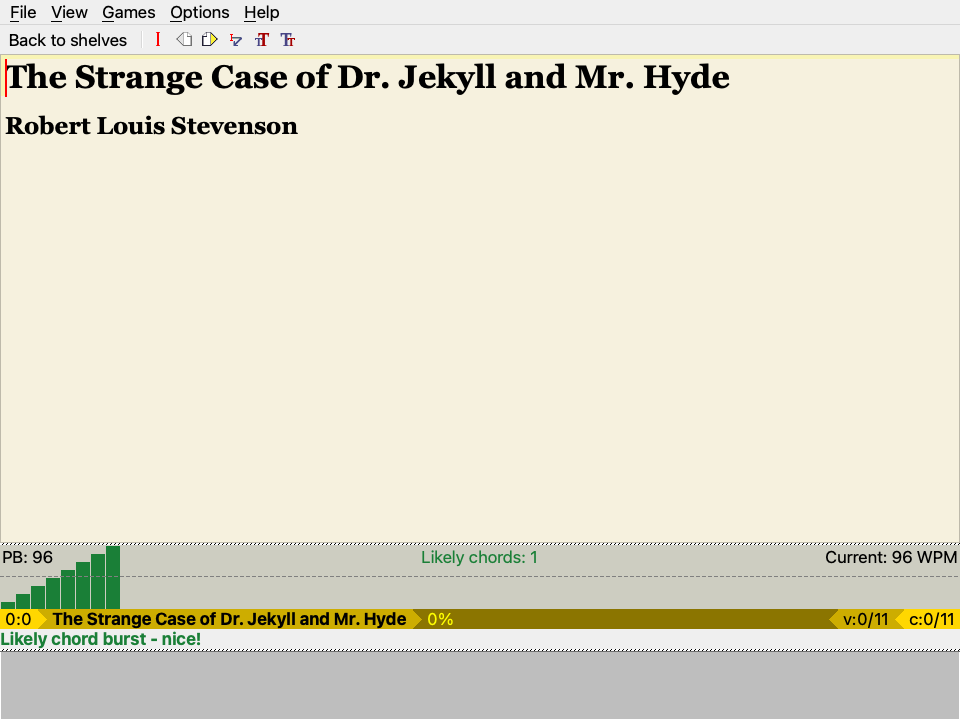
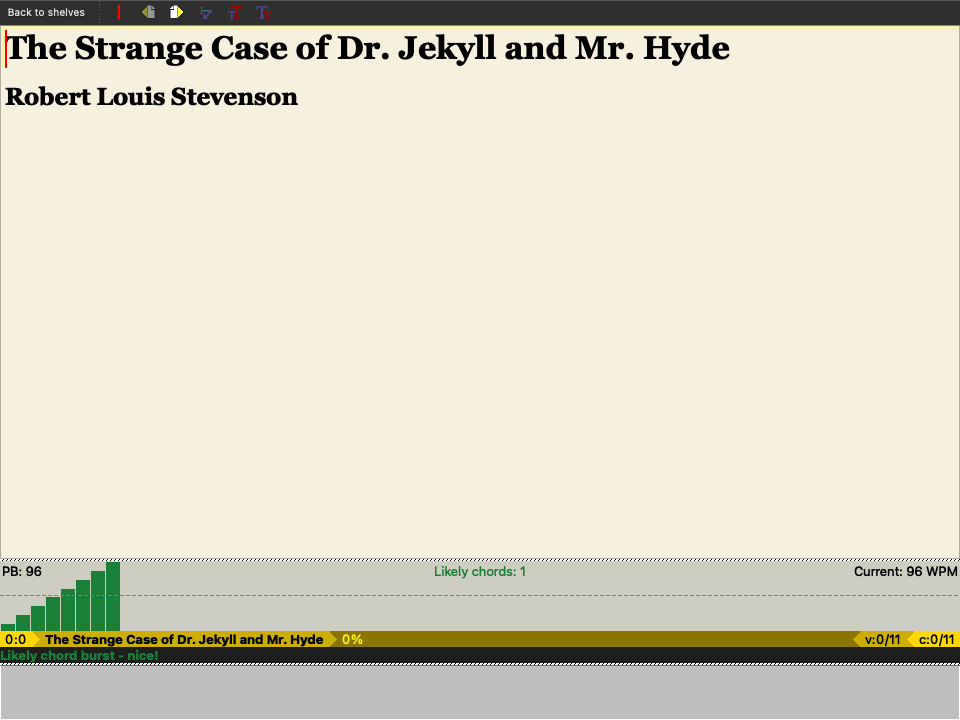
fix: auto-hide likely chord encouragement

Changed region(s): [[0.0, 0.7333, 1.0, 0.9472], [0.0, 0.0, 1.0, 0.1833]]

diff --git a/retype/ui/book_view.py b/retype/ui/book_view.py
@@ -2,7 +2,7 @@ import logging
 from qt import (QWidget, QVBoxLayout, QTextBrowser, QTextDocument, QUrl,
                 QTextCursor, QTextCharFormat, QPainter, QPixmap,
                 QToolBar, QFont, QKeySequence, Qt, QApplication, pyqtSignal,
-                QSplitter, QSize, QGuiApplication, QLabel)
+                QSplitter, QSize, QGuiApplication, QLabel, QTimer)
 
 from typing import TYPE_CHECKING
 
@@ -281,6 +281,12 @@ class BookView(QWidget):
         self.chord_hint_bar.setObjectName('chord-hint-bar')
         self.chord_feedback = QLabel('', self)
         self.chord_feedback.setObjectName('chord-feedback')
+        # Keep this timer owned by the view and single-shot so it cannot keep
+        # the application or tests alive after the view is destroyed.
+        self._chord_feedback_timer = QTimer(self)
+        self._chord_feedback_timer.setSingleShot(True)
+        self._chord_feedback_timer.timeout.connect(
+            self._hideLikelyChordFeedback)
         self.chord_feedback.setAccessibleName('Likely chord encouragement')
         self.chord_feedback.setAccessibleDescription(
             'Encouragement shown when a short keyboard-output burst is likely '
@@ -494,20 +500,31 @@ class BookView(QWidget):
         offset = max(0, self.cursor_pos - self.persistent_pos)
         bar.update_(str(line), offset)
 
+    def _hideLikelyChordFeedback(self):
+        # type: (BookView) -> None
+        feedback = getattr(self, 'chord_feedback', None)
+        if feedback is not None:
+            feedback.clear()
+            feedback.setVisible(False)
+
     def _showLikelyChordFeedback(self, count):
         # type: (BookView, int) -> None
         feedback = getattr(self, 'chord_feedback', None)
+        timer = getattr(self, '_chord_feedback_timer', None)
         if feedback is None:
             return
         if count <= 0:
-            feedback.clear()
-            feedback.setVisible(False)
+            if timer is not None:
+                timer.stop()
+            self._hideLikelyChordFeedback()
             return
         feedback.setText('Likely chord burst - nice!')
         feedback.setVisible(True)
         feedback.setAccessibleDescription(
             'Likely chord burst encouragement. See Typing statistics for the '
             'session count. This is a timing heuristic, not device detection.')
+        if timer is not None:
+            timer.start(3000)
 
     def setChords(self, chords):
         # type: (BookView, dict[str, object]) -> None

diff --git a/tests/gui/test_gui_flows.py b/tests/gui/test_gui_flows.py
@@ -92,6 +92,40 @@ def test_likely_chord_feedback_count_and_chart_segment(make_controller, qtbot):
     assert stats.likely_chords == 0
     assert stats.wpms_likely_chords == []
     assert not book_view.chord_feedback.isVisible()
+    assert not book_view._chord_feedback_timer.isActive()
+
+
+def test_likely_chord_feedback_hides_after_three_seconds_and_resets_timer(
+        make_controller, qtbot):
+    controller = make_controller()
+    controller.loadBookRequested.emit(0)
+    qtbot.wait(20)
+
+    book_view = controller.views[View.book_view]
+    stats = book_view.stats_dock
+    stats.resetSession()
+
+    def burst(start, word):
+        for position, (character, timestamp) in enumerate(
+                zip(word, (start + 1, start + 11, start + 21, start + 31)),
+                start=1):
+            book_view.cursor_pos = position
+            stats._onKeyPress(_TimedKeyEvent(character, timestamp))
+            stats.onUpdate(character)
+
+    burst(0, "abcd")
+    assert book_view.chord_feedback.isVisible()
+    qtbot.wait(1500)
+    burst(200, "efgh")
+    assert stats.likely_chords == 2
+    assert book_view.chord_feedback.isVisible()
+
+    # The second detection restarts the single-shot three-second timer.
+    qtbot.wait(1600)
+    assert book_view.chord_feedback.isVisible()
+    qtbot.wait(1500)
+    assert not book_view.chord_feedback.isVisible()
+    assert not book_view._chord_feedback_timer.isActive()
 
 
 def test_cleanup_backspaces_count_once_and_mark_one_burst(
